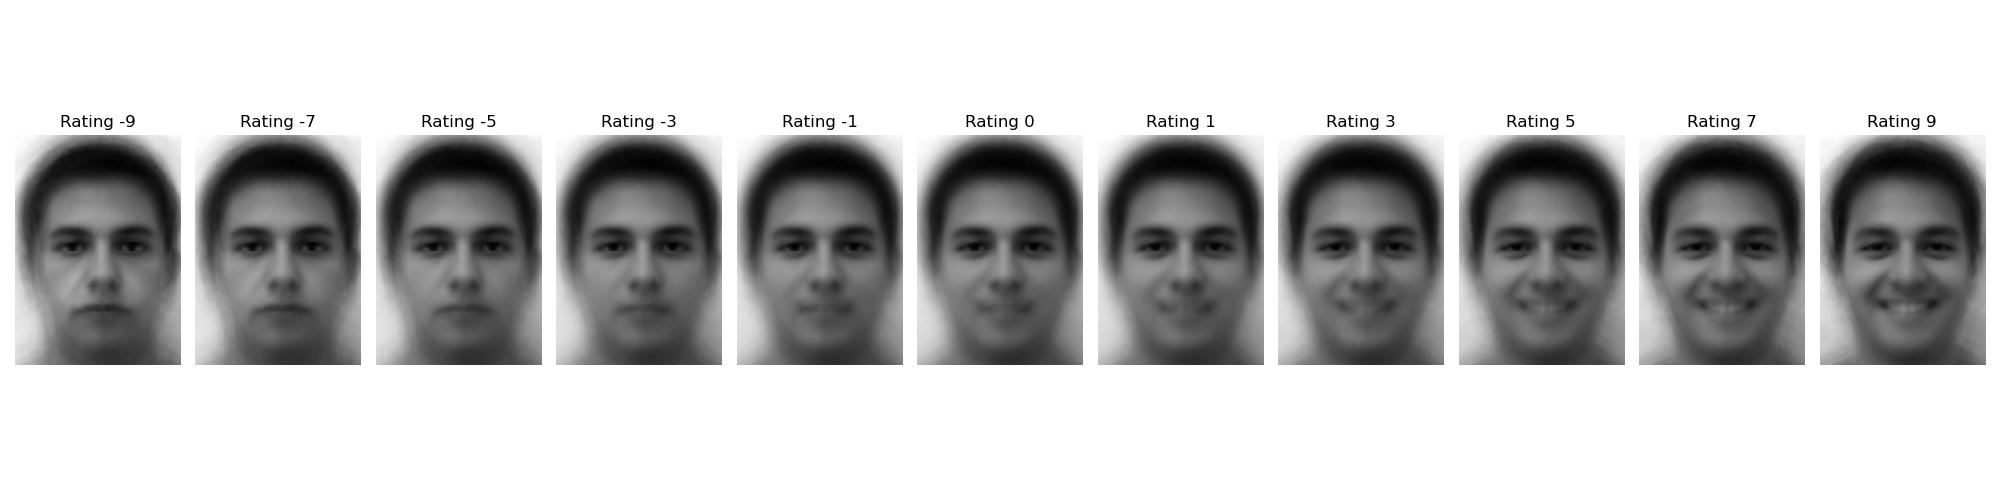
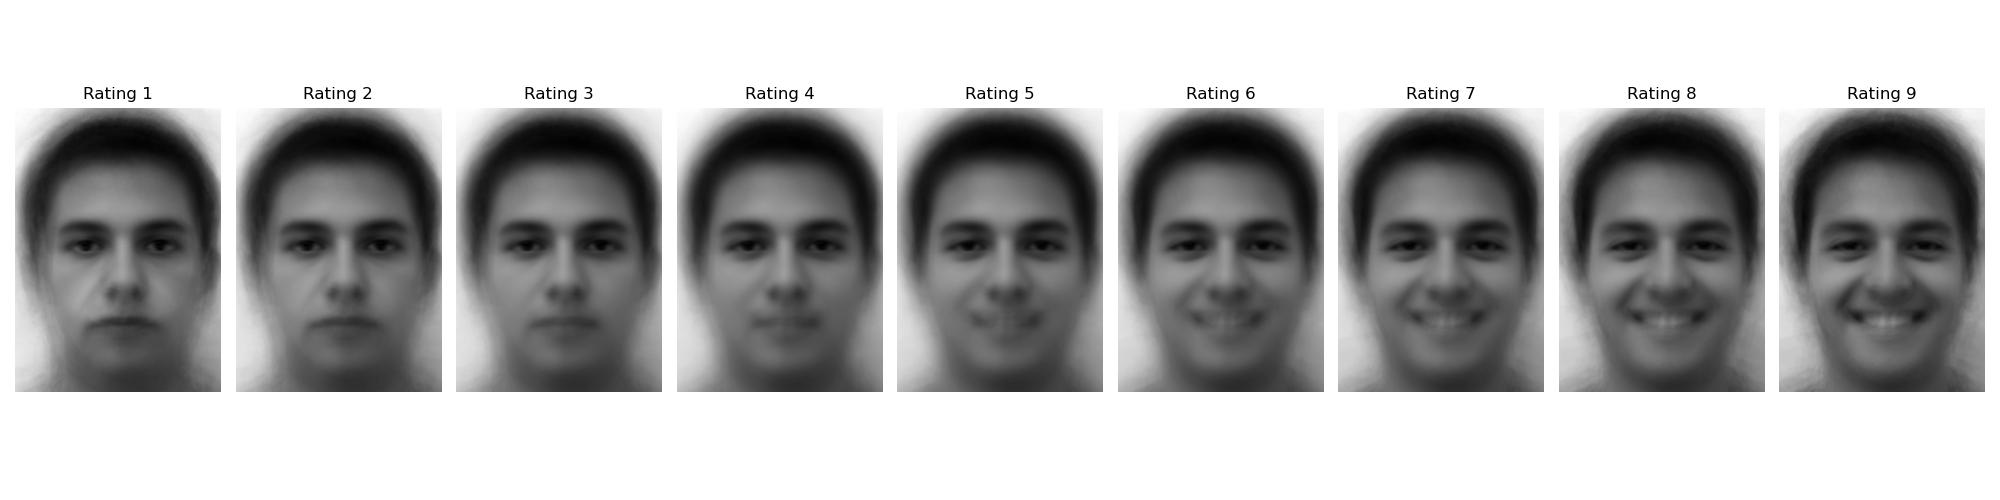
Fix small issue
The rating was scaling when fitting the model. When generating the face, we also need to scale the given rating otherwise it will be outside the boundary

diff --git a/feature_selection.py b/feature_selection.py
@@ -170,6 +170,8 @@ def generate_images(model, ratings):
     generated_images = []
     delta, w = model.intercept_, model.coef_
     
+    scaler = MinMaxScaler(feature_range=(0, 1))
+    ratings = scaler.fit_transform(np.array(ratings).reshape(-1, 1))
     print("Generating images based on provided ratings...")
     for rating in ratings:
         generated_images.append((rating - delta) * w / np.linalg.norm(w) ** 2)
@@ -190,7 +192,7 @@ def visualize_generated(generated, pca_data, ratings_generate):
     fig, axes = plt.subplots(1, len(ratings_generate), figsize=(20, 5))
     for i, image in enumerate(generated):
         # Calculate the image data
-        image_data = (image @ pca_data['pca'].components_[pca_data['selected_features'], :] * 0.05 + pca_data['avg']).reshape(pca_data['img_size'])
+        image_data = (image @ pca_data['pca'].components_[pca_data['selected_features'], :]+ pca_data['avg']).reshape(pca_data['img_size'])
          # Display the image in the appropriate subplot
         axes[i].imshow(image_data, cmap='gray')
         axes[i].set_title(f'Rating {ratings_generate[i]}')
@@ -247,7 +249,9 @@ def PCA_transform(ratings_generate):
 #%% 
 
 if __name__ == "__main__":
-    ratings_generate = [-9,-7,-5,-3,-1,0,1,3,5,7,9]
+    ratings_generate = [1,2,3,4,5,6,7,8,9]
     
     PCA_transform(ratings_generate)
 
+
+# %%
